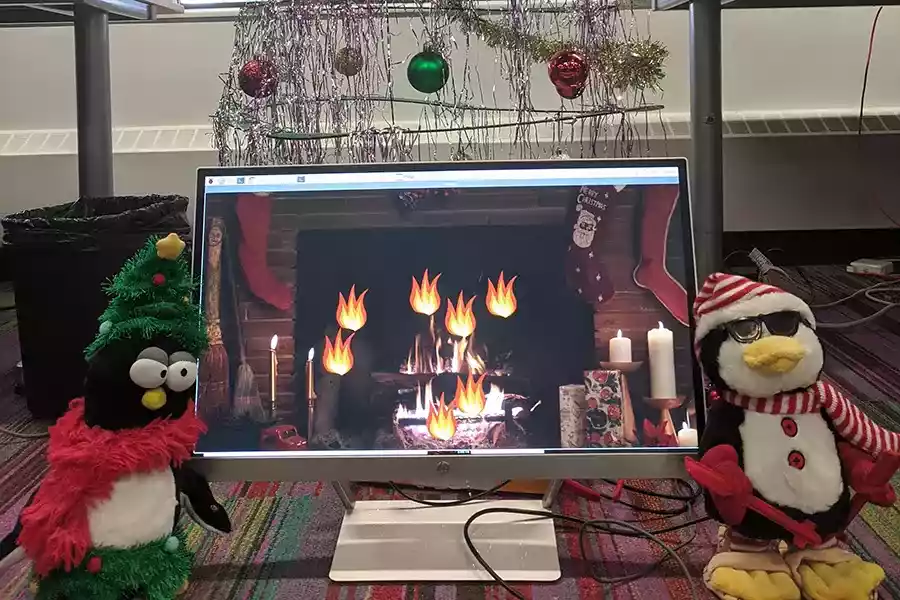
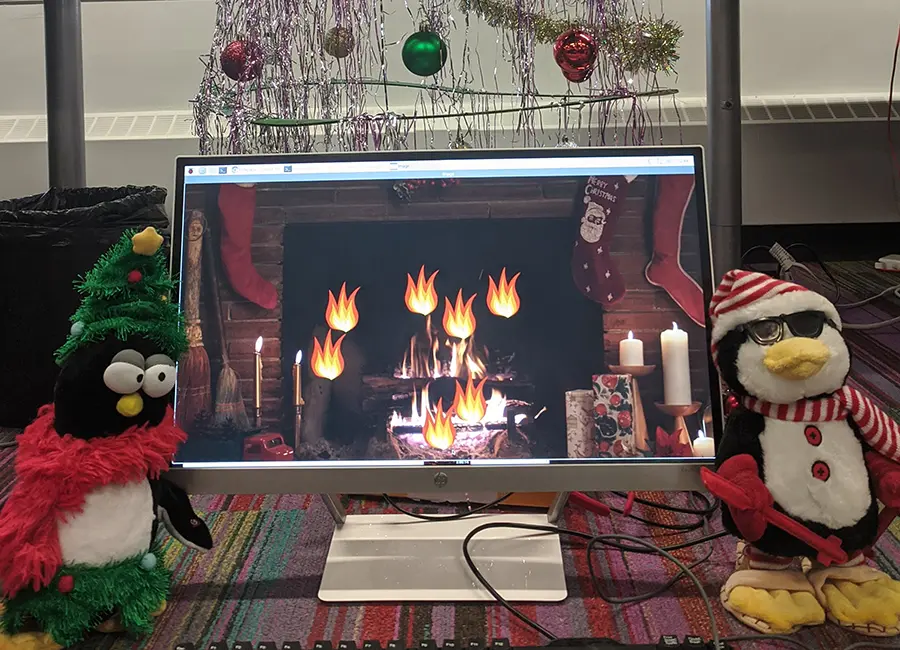
Adding more to my mentoring experience and changing the heights of all the photos to be the same

diff --git a/index.html b/index.html
@@ -518,7 +518,7 @@
               <h2>Mentorship</h2>
               <hr class="star-primary">
               <img data-src="img/portfolio/mentorship.webp" class="img-responsive img-centered lazyload" alt="A collage of logos including university of alberta, ada's team, technica and hack the north">
-              <p>I have been trying to give back more during the pandemic. Meeting with students and helping them through interviews, debugging, projects or hackathons has really helped me connect to people during the pandemic. I have been able to meet with students every two weeks to help them through their year and be a mentor at hackathons which is much more fast paced. My favourite opportunity was to mentor for the <a href="https://www.ai4goodlab.com/">AI4GoodLab</a> which featured teams of women competing in a hackathon, boot camp and final project demo. I was listed on their "AI experts" page: <b>ai4goodlab.com/ai-experts</b>. They have since changed it, but there is still proof in the <a href="https://web.archive.org/web/20210928210017/https://www.ai4goodlab.com/ai-experts">internet archive!</a></p>
+              <p>I have been trying to give back more during the pandemic. Meeting with students and helping them through interviews, debugging, projects or hackathons has really helped me connect to people during the pandemic. I have been able to meet with students every two weeks to help them through their year and be a mentor at hackathons which is much more fast paced. My favourite opportunity was to mentor for the <a href="https://www.ai4goodlab.com/">AI4GoodLab</a> which featured teams of women competing in a hackathon, boot camp and final project demo. You can see the group I mentored listed <a href="https://www.ai4goodlab.com/news/2021/07/19/11-ambitious-ai-prototypes-for-a-better-world/">here</a>, they are the "PhysiFeedback" group. I was listed on their "AI experts" page: <b>ai4goodlab.com/ai-experts</b>. They have since changed it, but there is still proof in the <a href="https://web.archive.org/web/20210928210017/https://www.ai4goodlab.com/ai-experts">internet archive!</a></p>
               <ul class="list-inline item-details">
                 <li><b>Hackathons:</b> 2</li>
                 <li><b>Students I meet with weekly:</b> 8</li>
